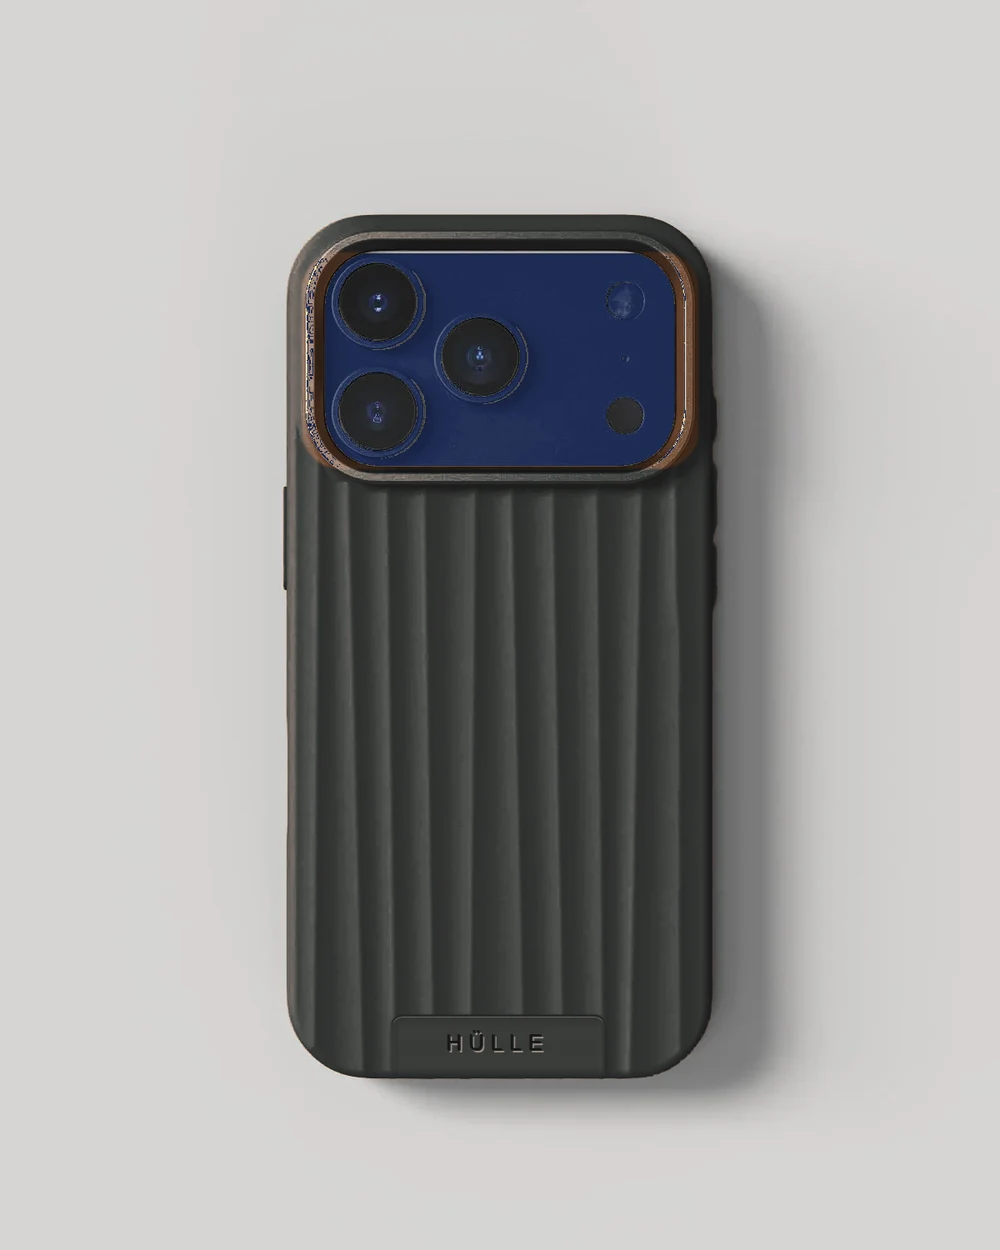
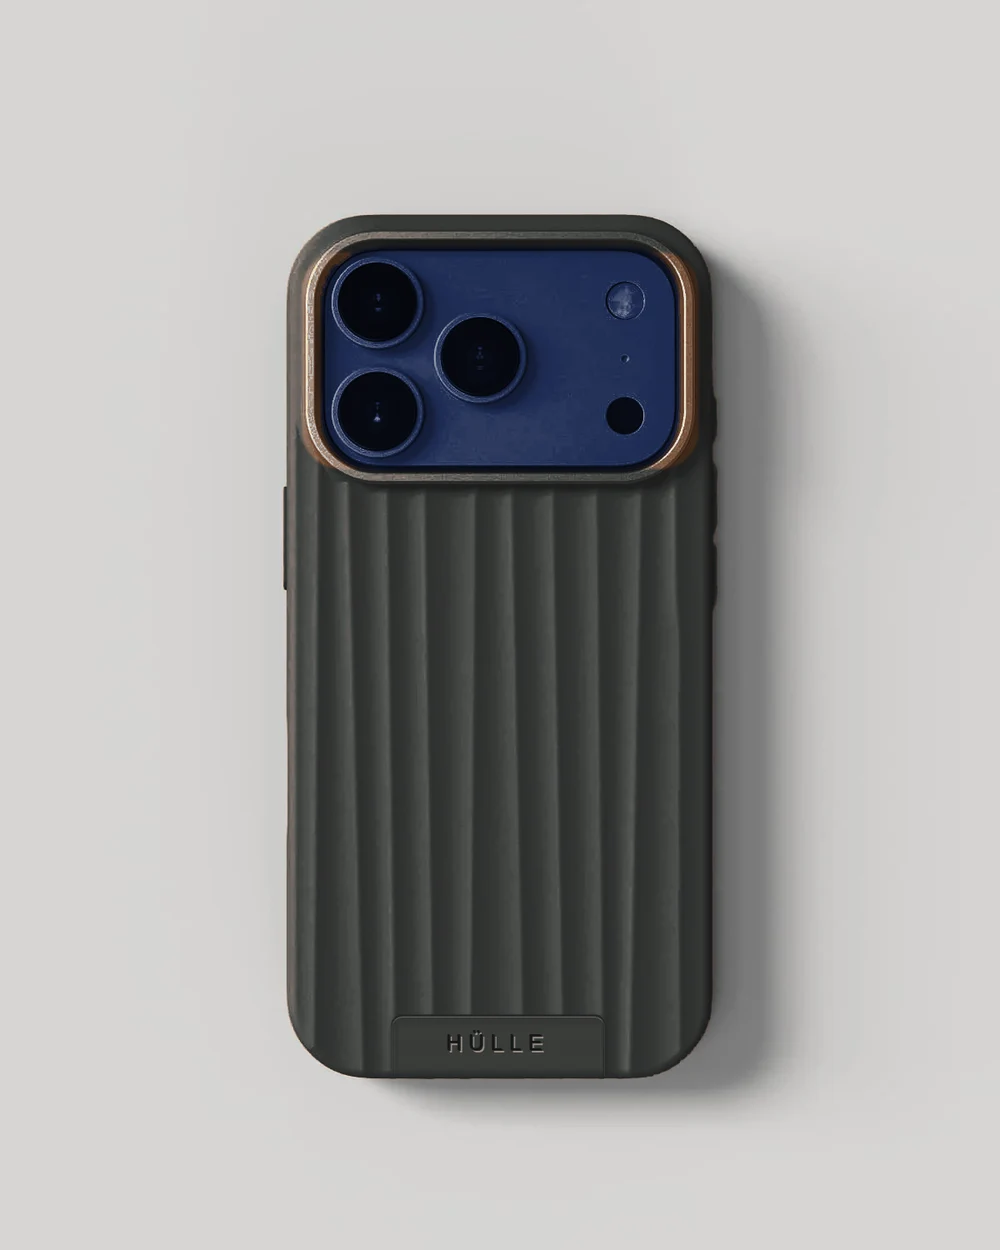
Fix camera-ring artifacts on all navy-plate renders
Swap in corrected navy-phone renders across Form (5 shades),
Gen-Z (6 prints), and Duo (5 shades) — the bronze/plate-edge noise
and, for Duo, plate misalignment are gone. Duo Slate's orange and
white renders also got a general quality pass and are included.

Rebuild the Form and Gen-Z hero trios with the fixed navy shots so
each again shows three distinct phone colours: Form is Olive/navy,
Oxblood/orange, Charcoal/white; Gen-Z is Sunset Fade, Confetti
Black, and Neon Dusk, all on navy.

Changed region(s): [[0.279, 0.1872, 0.62, 0.3744], [0.589, 0.1872, 0.682, 0.3744]]

diff --git a/components/hero.tsx b/components/hero.tsx
@@ -13,8 +13,8 @@ const slides = [
     sub: "The Form Case — ridged for grip, MagSafe built in, drop-tested to 1.8 metres. Eleven shades, ₹2,499.",
     ctaHref: "/cases/form-case",
     ctaLabel: "Shop Form Case",
-    image: "/images/lifestyle/form-trio-v4.webp",
-    alt: "Form Case in Olive on an orange iPhone, with Oxblood and Charcoal on white",
+    image: "/images/lifestyle/form-trio-v5.webp",
+    alt: "Form Case in Olive on a navy iPhone, Oxblood on orange, and Charcoal on white",
   },
   {
     key: "air",
@@ -33,7 +33,7 @@ const slides = [
     sub: "Gradients and confetti on the ridged shell — six prints, ₹2,499.",
     ctaHref: "/cases/gen-z",
     ctaLabel: "Shop Gen-Z",
-    image: "/images/lifestyle/genz-trio-v2.webp",
+    image: "/images/lifestyle/genz-trio-v3.webp",
     alt: "Gen-Z collection cases in Sunset Fade, Confetti Black, and Neon Dusk prints",
   },
 ];
